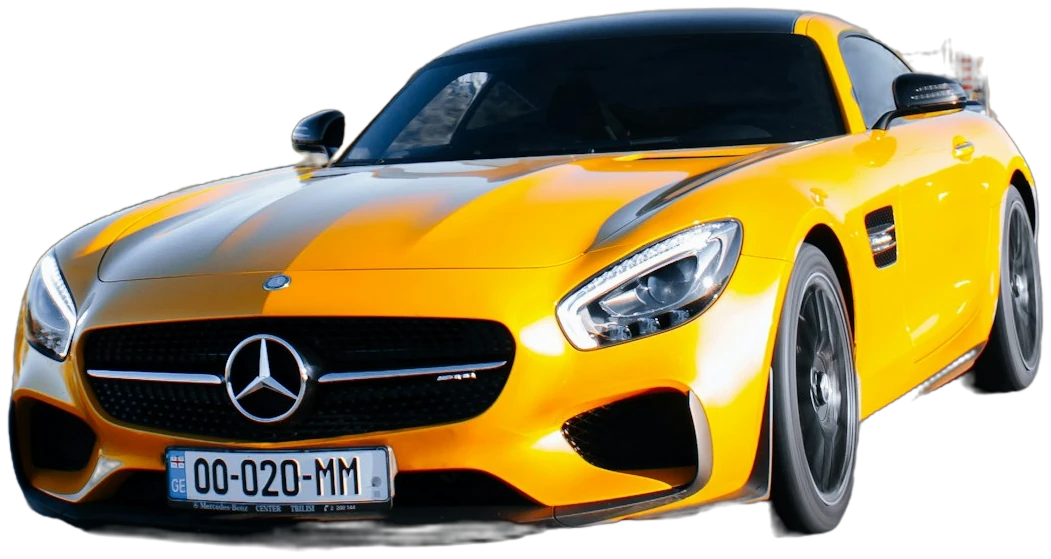
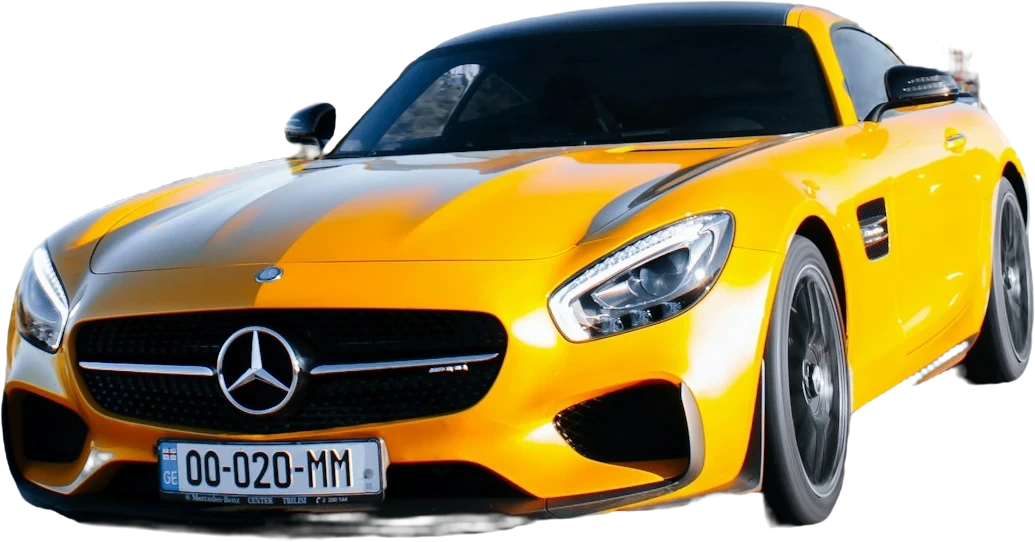
Rebrand to ELSHAZLY MOTORS and fix the car cutouts
- Showroom renamed APEX -> ELSHAZLY (الشاذلي موتورز): navbar, hero
  headline (resized for the longer word), footer wordmark, preloader,
  page title/meta, social handle.
- Cutout repair: Bugatti roofline rebuilt as a smooth curve with the
  glass band tinted dark (venue reflections gone), stray background
  strip removed; Challenger background blob above the roof erased;
  all 18 cutouts polished — small stray components dropped, 1px fringe
  erosion, smoothed alpha edges.

diff --git a/src/components/Navbar.jsx b/src/components/Navbar.jsx
@@ -23,9 +23,9 @@ export default function Navbar({ theme, onToggleTheme }) {
         className="fixed inset-x-0 top-0 z-[100] mix-blend-difference"
       >
         <div className="flex items-center justify-between px-6 py-5 md:px-12">
-          <a href="#hero" className="flex items-baseline gap-2" data-cursor="APEX">
+          <a href="#hero" className="flex items-baseline gap-2" data-cursor="ELSHAZLY">
             <span className="font-display text-2xl tracking-wide text-white" dir="ltr">
-              APEX<span className="text-signal">.</span>
+              ELSHAZLY<span className="text-signal">.</span>
             </span>
             <span className="hidden text-sm font-bold text-white/80 sm:block">موتورز</span>
           </a>
@@ -77,7 +77,7 @@ export default function Navbar({ theme, onToggleTheme }) {
           >
             <div className="flex items-center justify-between px-6 py-5 md:px-12">
               <span className="font-display text-2xl text-bone" dir="ltr">
-                APEX<span className="text-signal">.</span>
+                ELSHAZLY<span className="text-signal">.</span>
               </span>
               <button
                 onClick={() => setOpen(false)}
@@ -126,7 +126,7 @@ export default function Navbar({ theme, onToggleTheme }) {
               className="flex flex-wrap items-center justify-between gap-3 px-6 pb-8 font-grotesk text-[11px] uppercase tracking-[0.3em] text-dim md:px-12"
               dir="ltr"
             >
-              <span>Instagram — @apexmotors.eg</span>
+              <span>Instagram — @elshazlymotors.eg</span>
               <span>Open daily 10AM — 12AM</span>
             </motion.div>
           </motion.div>

diff --git a/src/components/Hero.jsx b/src/components/Hero.jsx
@@ -104,12 +104,12 @@ export default function Hero({ started }) {
 
         <h1 className="font-display leading-[0.82]" dir="ltr">
           <span className="block overflow-hidden">
-            <motion.span custom={0} variants={line} initial="hidden" animate={started ? 'show' : 'hidden'} className="block text-[19vw] tracking-tight text-bone md:text-[15.5rem]">
-              APEX
+            <motion.span custom={0} variants={line} initial="hidden" animate={started ? 'show' : 'hidden'} className="block text-[13vw] tracking-tight text-bone md:text-[10.8rem]">
+              ELSHAZLY
             </motion.span>
           </span>
           <span className="block overflow-hidden">
-            <motion.span custom={1} variants={line} initial="hidden" animate={started ? 'show' : 'hidden'} className="text-stroke block text-[19vw] tracking-tight md:text-[15.5rem]">
+            <motion.span custom={1} variants={line} initial="hidden" animate={started ? 'show' : 'hidden'} className="text-stroke block text-[13vw] tracking-tight md:text-[10.8rem]">
               MOTORS
             </motion.span>
           </span>

diff --git a/index.html b/index.html
@@ -4,8 +4,8 @@
     <meta charset="UTF-8" />
     <link rel="icon" type="image/svg+xml" href="/favicon.svg" />
     <meta name="viewport" content="width=device-width, initial-scale=1.0" />
-    <meta name="description" content="أبيكس موتورز — معرض سيارات فاخرة ورياضية في مصر. بوجاتي، لامبورجيني، فيراري، مكلارين وأكتر، بتجربة بصرية من عالم تاني." />
-    <title>APEX MOTORS | أبيكس موتورز — معرض السيارات الفاخرة</title>
+    <meta name="description" content="الشاذلي موتورز — معرض سيارات فاخرة ورياضية في مصر. بوجاتي، لامبورجيني، فيراري، مكلارين وأكتر، بتجربة بصرية من عالم تاني." />
+    <title>ELSHAZLY MOTORS | الشاذلي موتورز — معرض السيارات الفاخرة</title>
     <script>
       // apply the saved theme before first paint (no flash of the wrong mode)
       try {

diff --git a/src/components/Footer.jsx b/src/components/Footer.jsx
@@ -30,8 +30,8 @@ export default function Footer() {
 
       {/* giant wordmark */}
       <div className="select-none px-2" dir="ltr" aria-hidden>
-        <div className="text-stroke-faint whitespace-nowrap text-center font-display text-[18.5vw] leading-[0.78]">
-          APEX MOTORS
+        <div className="text-stroke-faint whitespace-nowrap text-center font-display text-[16.5vw] leading-[0.78]">
+          ELSHAZLY
         </div>
       </div>
 
@@ -45,7 +45,7 @@ export default function Footer() {
             <Phone size={15} className="text-signal" /> +20 109 968 7092
           </a>
           <a href="#hero" className="flex items-center gap-2 hover:text-bone" dir="ltr">
-            <AtSign size={15} className="text-signal" /> apexmotors.eg
+            <AtSign size={15} className="text-signal" /> elshazlymotors.eg
           </a>
           <button
             onClick={() => window.scrollTo({ top: 0, behavior: 'smooth' })}

diff --git a/src/components/Preloader.jsx b/src/components/Preloader.jsx
@@ -40,7 +40,7 @@ export default function Preloader({ onDone }) {
     >
       <div className="flex items-center justify-between font-grotesk text-[11px] uppercase tracking-[0.35em] text-[#9b978c]">
         <span className="font-display text-lg tracking-wide text-[#f2f0ea]" dir="ltr">
-          APEX<span className="text-signal">.</span>
+          ELSHAZLY<span className="text-signal">.</span>
         </span>
         <span className="flex items-center gap-2">
           <span className={`h-2 w-2 rounded-full ${count >= 100 ? 'bg-signal' : 'bg-amber-400 animate-pulse-dot'}`} />

diff --git a/src/components/About.jsx b/src/components/About.jsx
@@ -22,7 +22,7 @@ export default function About() {
         <div ref={ref} className="relative aspect-[4/3] overflow-hidden" data-cursor="المعرض">
           <motion.img
             src="/cars/ferrari.jpg"
-            alt="صالة عرض أبيكس موتورز"
+            alt="صالة عرض الشاذلي موتورز"
             style={{ y, scale: 1.18 }}
             className="h-full w-full object-cover"
           />

diff --git a/README.md b/README.md
@@ -1,4 +1,4 @@
-# APEX MOTORS — أبيكس موتورز
+# ELSHAZLY MOTORS — الشاذلي موتورز
 
 موقع تعريفي (Front-End فقط) لمعرض سيارات فاخرة، بستايل داكن سينمائي مستوحى من مرجع إنستجرام
 (موقع AUREL من Batikha Studio): خلفية سوداء، لمسات حمراء، طباعة عملاقة، بطاقات مواصفات عائمة،
@@ -49,6 +49,6 @@ npm run preview  # معاينة البناء: http://localhost:4173
 - **الصور:** `public/cars/` — صور Unsplash مجانية، استبدلها بصور المعرض الحقيقية قبل الإطلاق التجاري
 - **الألوان:** `src/index.css` في `@theme` (`--color-signal` للأحمر، `--color-void` للخلفية)
 - **رقم التواصل:** مكوّنات `Navbar` و`Footer` (حاليًا رقم تجريبي)
-- **اسم المعرض:** ابحث عن `APEX` في `src/components/` واستبدله
+- **اسم المعرض:** ابحث عن `ELSHAZLY` في `src/components/` واستبدله
 
 > ملحوظة: الخطوط (Anton + Cairo + Space Grotesk) بتتحمل من Google Fonts، فمحتاجة إنترنت أول مرة.
